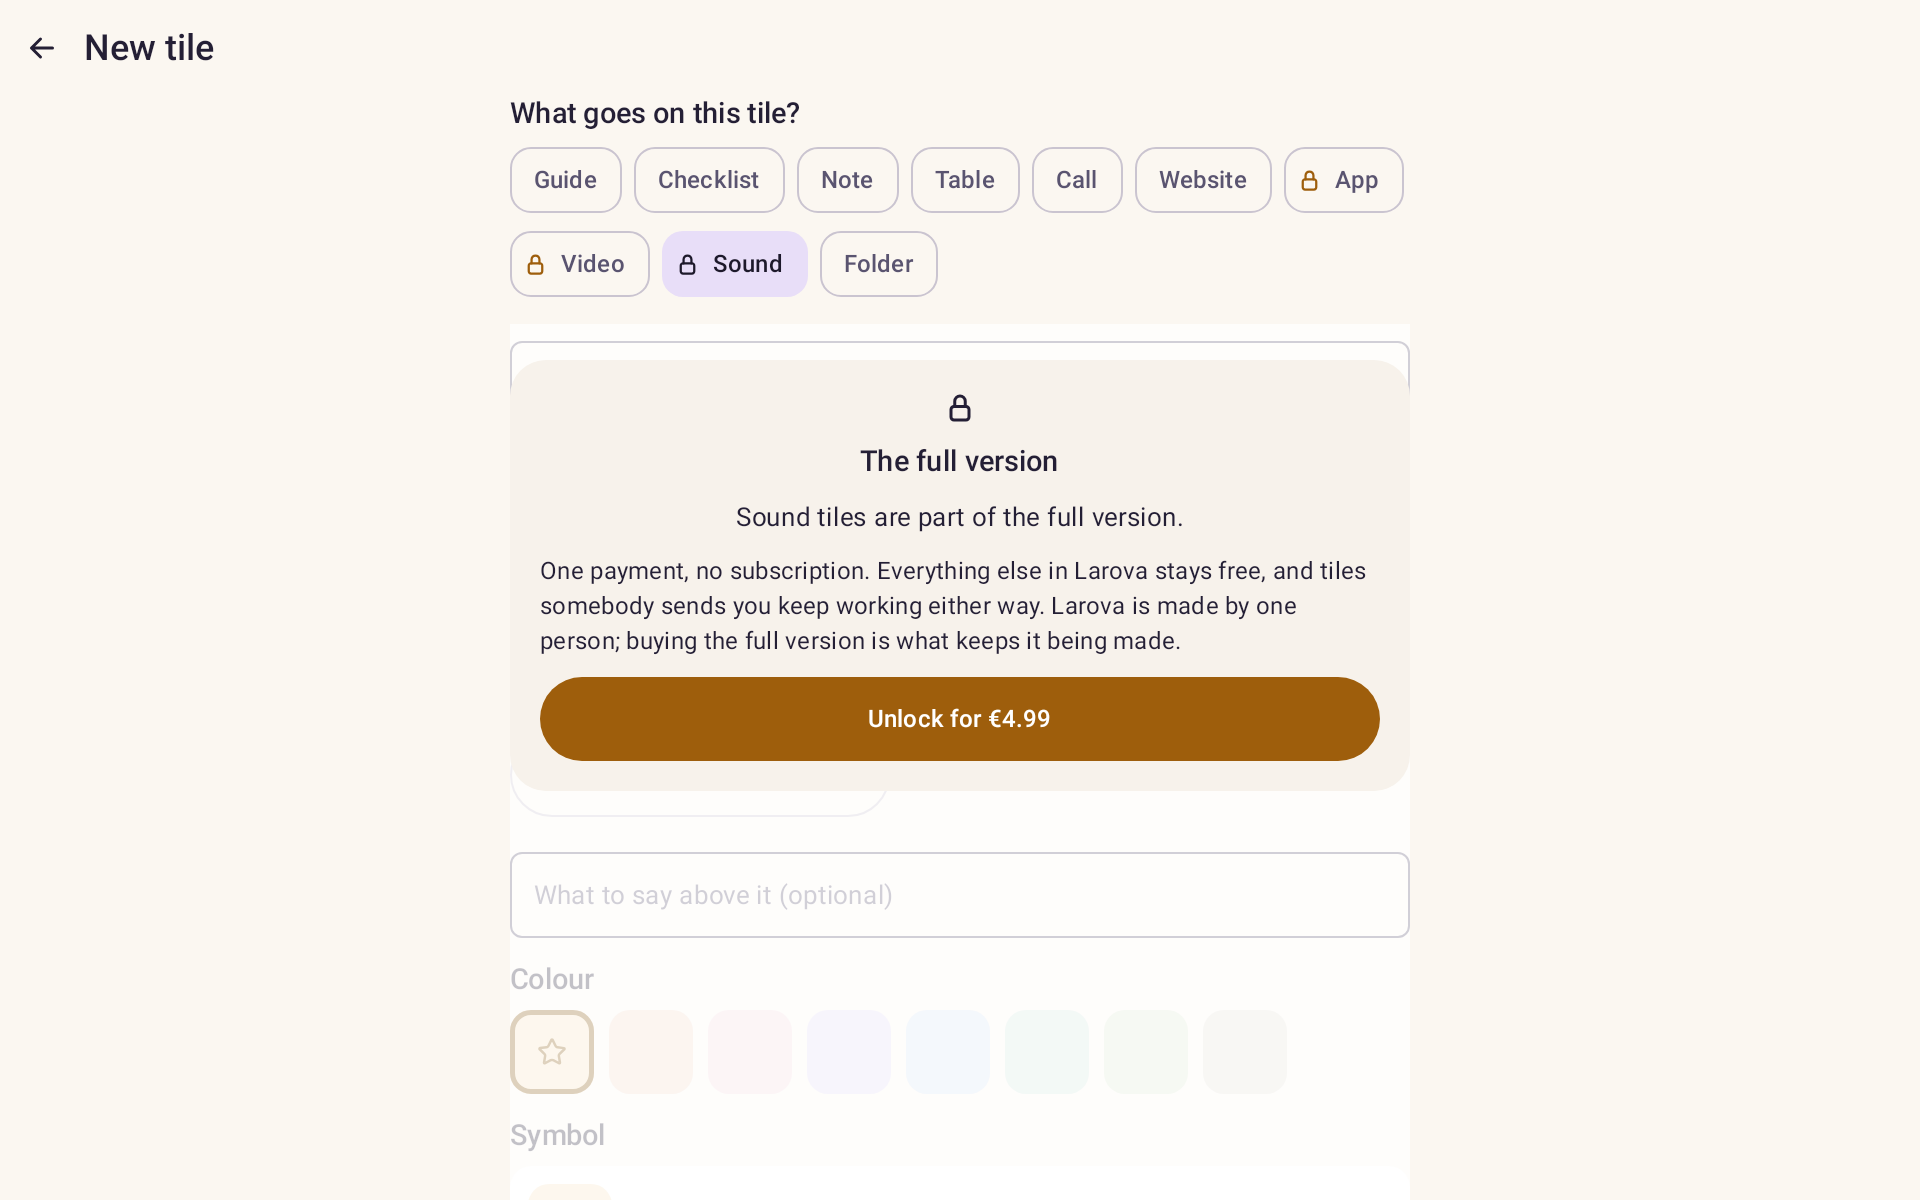
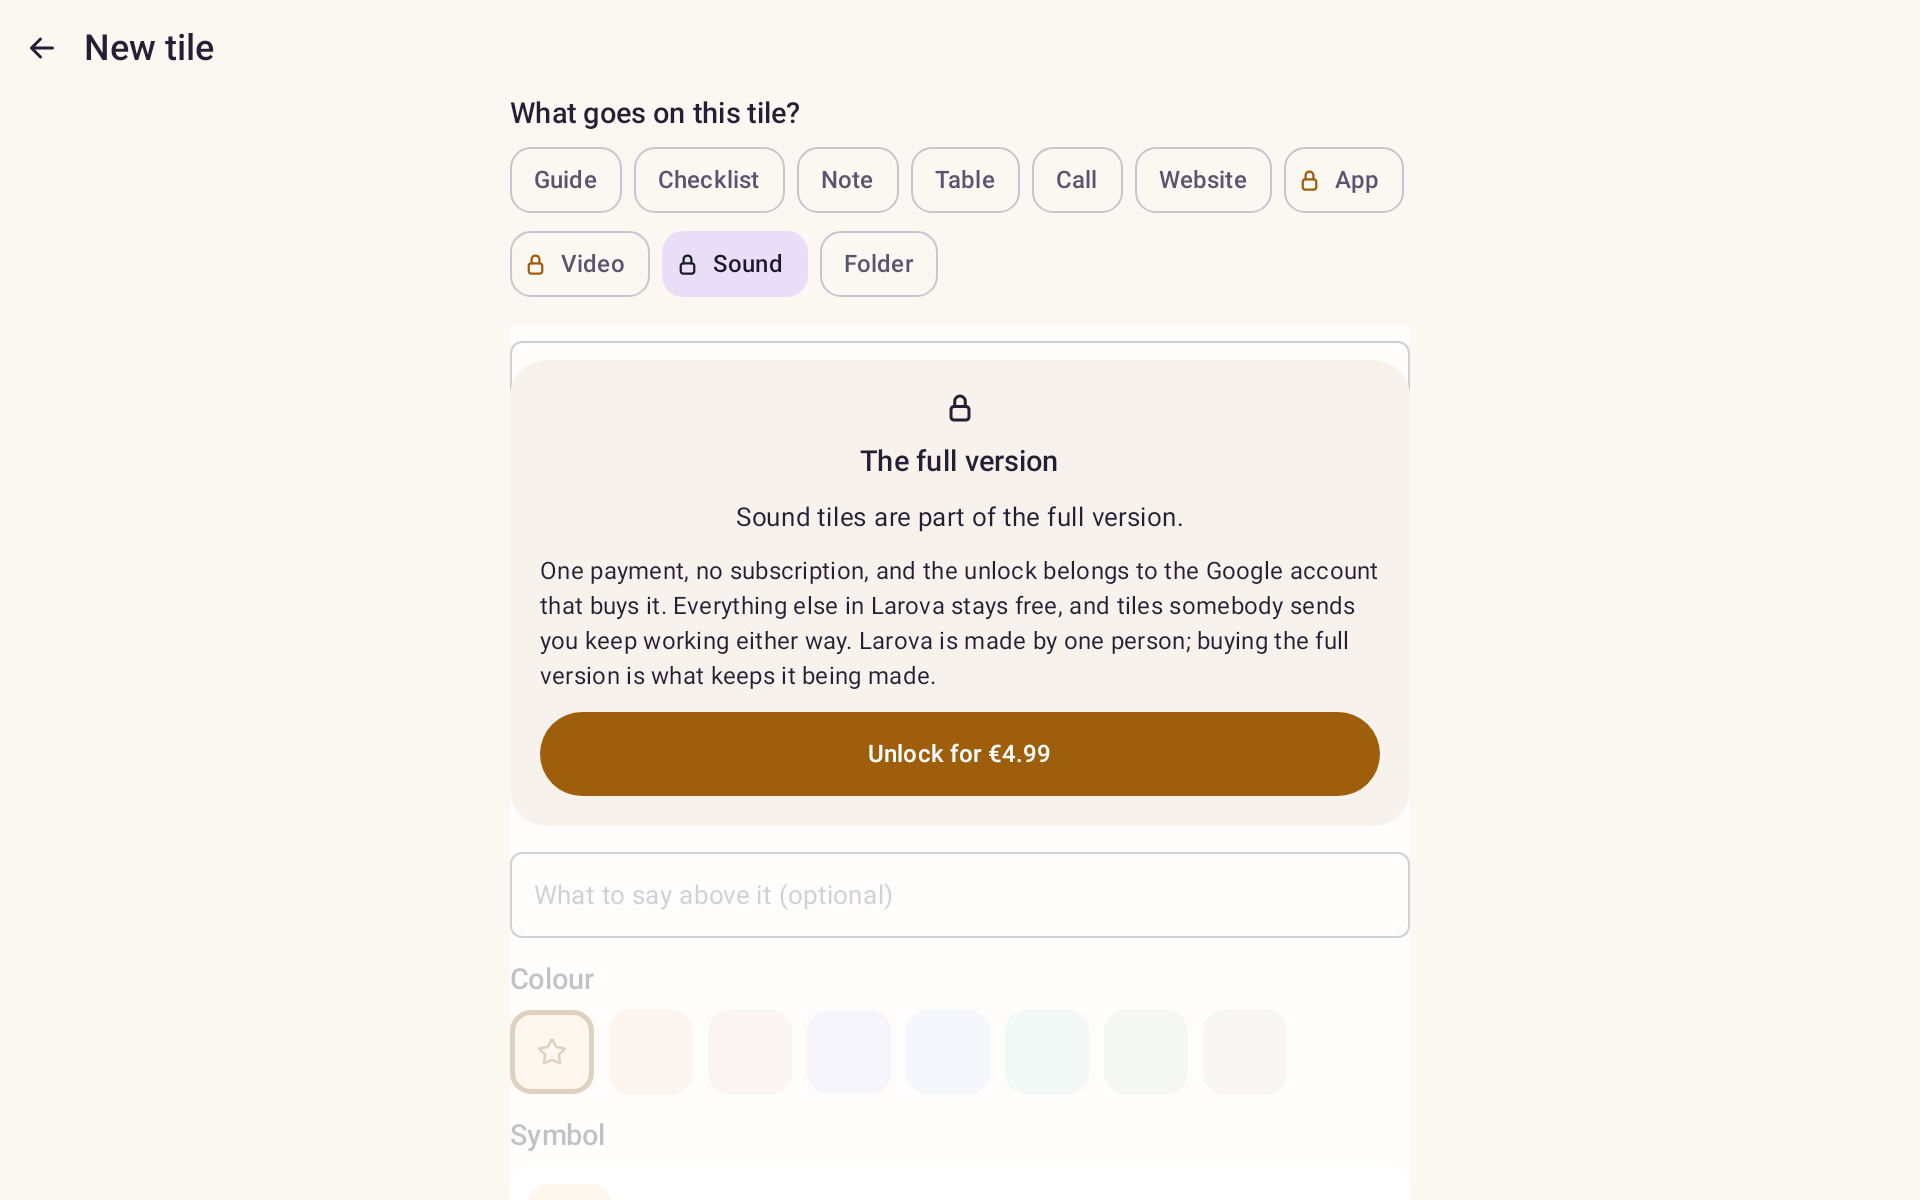
fix(l10n): say that the unlock belongs to the account that buys it
Family Library shares paid apps, films and books, not in-app purchases
- Play's help page is explicit about it, and there is no field for it
anywhere in the Developer API. So the unlock is per Google account, and
the offer now says so in all fourteen locales before anybody pays
rather than leaving it to be discovered afterwards. The fourteen
product descriptions in Play's own purchase sheet were updated to match
through the API.

Nothing here was previously wrong, only silent, and the store listing
is left alone: it never claimed household coverage and French has
thirty-one characters of headroom.

Two release-setup rows corrected in the same spirit. The Family Library
row told the maintainer to tick a checkbox that does not exist and sent
him looking for it; what replaces it records why, and a second row
poses the one-purchase-several-children question as an open product
question rather than a task. Also records the retaken content rating
questionnaire, the EU right of withdrawal now declared on the purchase
option, and the App access text - which is an explanation rather than
credentials, because there is no account to log into.

Goldens re-recorded: the offer card carries one more sentence.

Changed region(s): [[0.2812, 0.4625, 0.7188, 0.6783]]

diff --git a/docs/release-setup.md b/docs/release-setup.md
@@ -230,8 +230,30 @@ gh api -X DELETE repos/EarMaster/larova/branches/main/protection
 | Listing text pushed from the repo | written, M2 — `play-listing.yml`, `fastlane supply`. Validates end to end against Play as of 2026-08-31. It needs a release on the internal track to attach the edit to (there is one): it publishes the listing of an app that has shipped, it cannot bootstrap one |
 | Listing screenshots | M3. `play-listing.yml` will upload them once they exist at `en-US/images/phoneScreenshots/`; until then Console-uploaded images are left untouched |
 | In-app product `app.larova.unlock` | done, 2026-09-02 — created through the Play Developer API with the release service account, not by hand: one-time product, purchase option `unlock`, `legacyCompatible` so `queryProductDetailsAsync` also returns the classic offer shape, listings in all fourteen languages, 173 regions, state ACTIVE. Priced so a buyer in DE/AT pays **4.99 EUR** — note `pricing:convertRegionPrices` treats its input as net, so the base is 4.19 and Germany lands on 4.99. Change the price any time; nothing is baked into the build. Three traps, all recorded because they cost time: the legacy `inappproducts` endpoint now returns 403 *"Please migrate to the new publishing API"*; only `patch` is bound to lower-case `onetimeproducts` while every other method uses `oneTimeProducts` (check the discovery document, not the reference pages); and regions version `2022/02` rejects the euro for Bulgaria, so take the version from the conversion response — it was `2025/03` |
-| **Family Library** enabled on that product | **yours** — one purchase then covers a household. Without it, the honest answer to "I have three children with three phones" is "buy it three times", which costs more goodwill than any shared backup file |
+| ~~Family Library on the product~~ | **not possible, and never was.** Play Family Library shares paid *apps*, films and books; the help page is explicit that "you can't share in-app purchases". There is no checkbox to find and no field for it anywhere in the Developer API — `OneTimeProduct` has none. What is written elsewhere about family sharing being on by default and no longer optional is true of **paid apps**, not of in-app products. So the unlock is per Google account, and the household problem below is real and unsolved |
+| One purchase, several children | **open question, not a task.** A child's phone signed into the parent's Google account carries the unlock; children with their own accounts under Family Link each need their own purchase. Three options if that matters: leave it and say so plainly in the store listing, sell Larova as a paid app instead — which *is* family-shareable but drops the free tier — or issue signed unlock keys by hand for households that ask, which is the offline key path the paid-tier design already anticipated |
 | `LICENSING_KEY` GitHub secret, from Console → Monetise → Licensing | **yours** — the base64 RSA key `PurchaseVerifier` checks receipts against. A *public* key, so not a secret in the cryptographic sense; kept as one only so it lives beside the other four. Absent, every receipt is rejected and paying customers stay locked |
 | Licence testers added, so billing can be tested without paying | **yours** — Console → Settings → Licence testing. The only way to transact against a sideloaded build |
 | The purchase flow exercised on a physical device | **yours** — the one thing that cannot be checked here. Buy, kill the app, relaunch with the phone offline, confirm it is still unlocked. Also confirm no `NoClassDefFoundError` naming `com.google.android.datatransport`: see `docs/technical-notes.md` §7 |
+| Content rating questionnaire retaken | done, 2026-09-03 — the IARC questionnaire asks about in-app digital purchases, and Play requires a fresh submission whenever a change would alter an answer |
+| Right of withdrawal declared on the product | done, 2026-09-03 — `withdrawalRightType` = `WITHDRAWAL_RIGHT_DIGITAL_CONTENT` on the `unlock` purchase option, set through the API. It governs what Play tells an EU buyer about the fourteen-day cancellation right, and it was left unspecified when the product was first created. `productTaxCategoryCode` stays unset on purpose: unset means standard digital goods, which is the right category for an app unlock |
+| App access instructions | **no credentials exist to give.** There is no account, no sign-in and no server, so the declaration is a short explanation rather than a login. The text below is what goes in the field |
 | Data safety form reviewed for the purchase | **yours** — Google processes the payment and the app sends nothing, but the declaration is worth re-reading rather than left as it was |
+
+## 6. App access, as declared to Play
+
+There is nothing to log into, so the App access declaration is an explanation. Paste this:
+
+> Larova has no accounts, no sign-in and no server, so there are no credentials to provide.
+>
+> Parent view: on a fresh installation no PIN exists, so the whole app is reachable immediately. A PIN is only
+> asked for once somebody has set one during setup.
+>
+> In-app purchase: three of the ten tile types — App, Video and Sound — need a one-time purchase
+> (`app.larova.unlock`, non-consumable). The other seven (guide, note, checklist, table, call, website, folder),
+> along with backup and restore, the parent-view lock, night mode and all fourteen languages, are free and need no
+> purchase. Choosing a paid type shows that tile's own fields with the offer laid over them, so what is being sold
+> is visible without buying it. Tiles of a paid type that arrive in a restored backup work without any purchase.
+
+Keep it in step with `PAID_TILE_TYPES` in `core/domain/.../usecase/Entitlements.kt`: if what is sold changes, this
+text is wrong until it is changed too.

diff --git a/CHANGELOG.md b/CHANGELOG.md
@@ -19,6 +19,9 @@ docs-only changes do not belong here.
   offer laid over it, instead of a message in front of a screen you had not seen. You can look at
   what you would be getting before deciding, and choose a different type without dismissing
   anything first.
+- The offer now says plainly that the full version belongs to the Google account that buys it.
+  Google Play cannot share an in-app purchase between family members the way it shares a paid app,
+  so it is better said before paying than discovered afterwards.
 
 ## [0.4.0] - 2026-09-01
 
